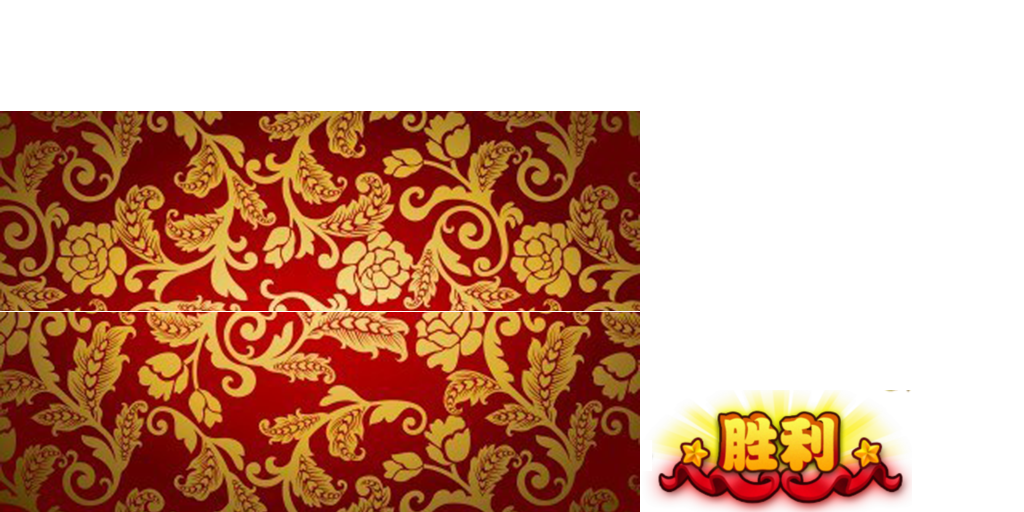
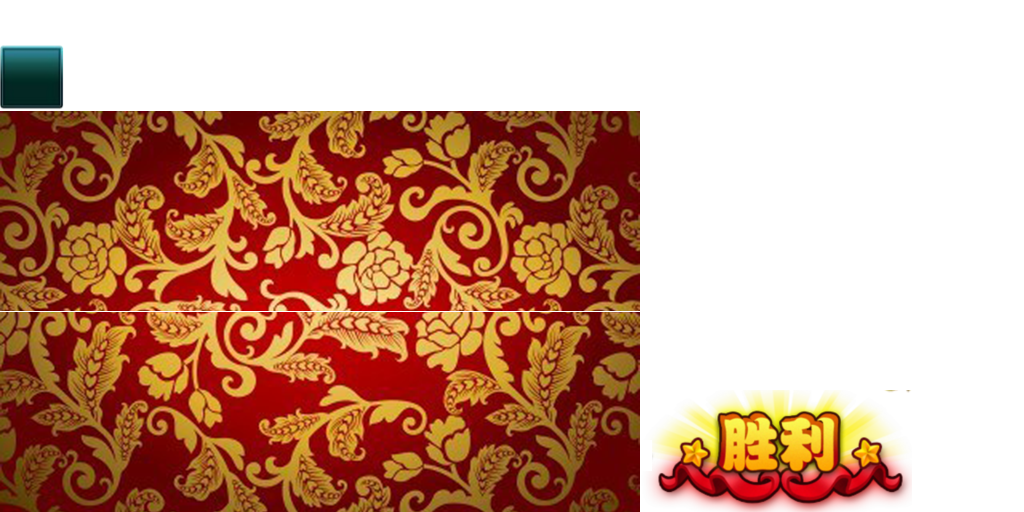
skill button

Changed region(s): [[0.0, 0.0625, 0.0625, 0.2188]]

diff --git a/Assets/Scripts/TouchController.cs b/Assets/Scripts/TouchController.cs
@@ -28,8 +28,14 @@ public class TouchController : MonoBehaviour {
 			return;
 		}
 
-		foreach( Touch touch in Input.touches )
+        if (Input.touchCount == 2)
         {
+            Vector2 touchPosition1 = Input.GetTouch(0).position;
+            Vector2 touchPosition2 = Input.GetTouch(1).position;
+        }
+        else if (Input.touchCount == 1)
+        {
+            Touch touch = Input.GetTouch(0);
 			if( touch.phase == TouchPhase.Began && player.getMode() == PlayerController.PlayerMode.kModeAim )
 			{
 				Ray ray = Camera.main.ScreenPointToRay(touch.position);

diff --git a/Assets/Scripts/VictoryTrigger.cs b/Assets/Scripts/VictoryTrigger.cs
@@ -11,7 +11,7 @@ public class VictoryTrigger : MonoBehaviour
 	void Start () {
         mPlayerObj = GameObject.FindWithTag("Player");
         mWinDialog = GameObject.FindWithTag("WinDialog");
-
+        Debug.Log(mWinDialog);
         if (mPlayerObj)
         {
             mPlayerController = mPlayerObj.GetComponent<PlayerController>();
